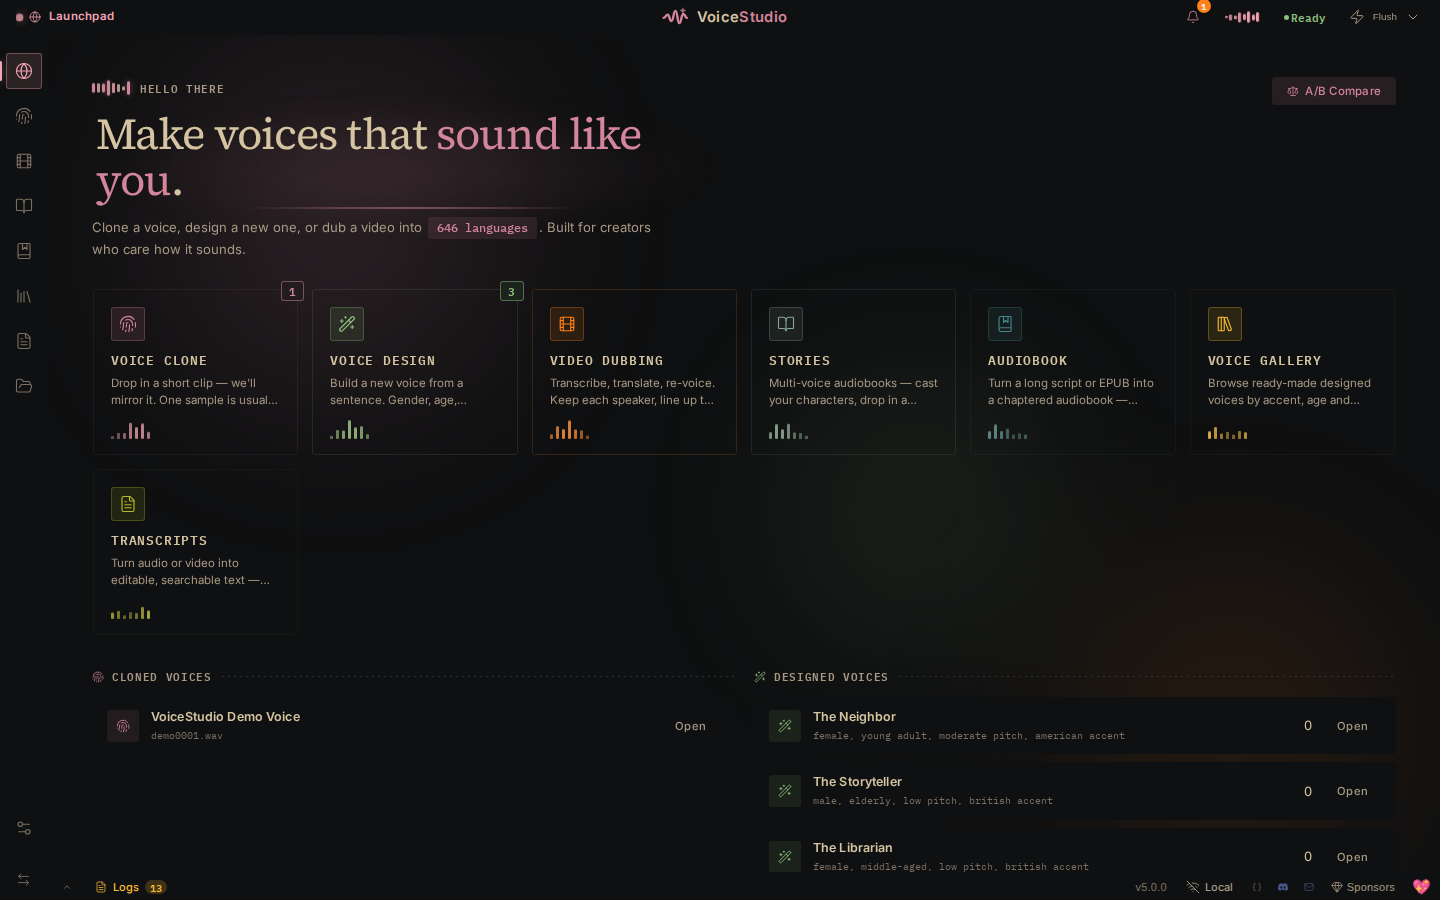
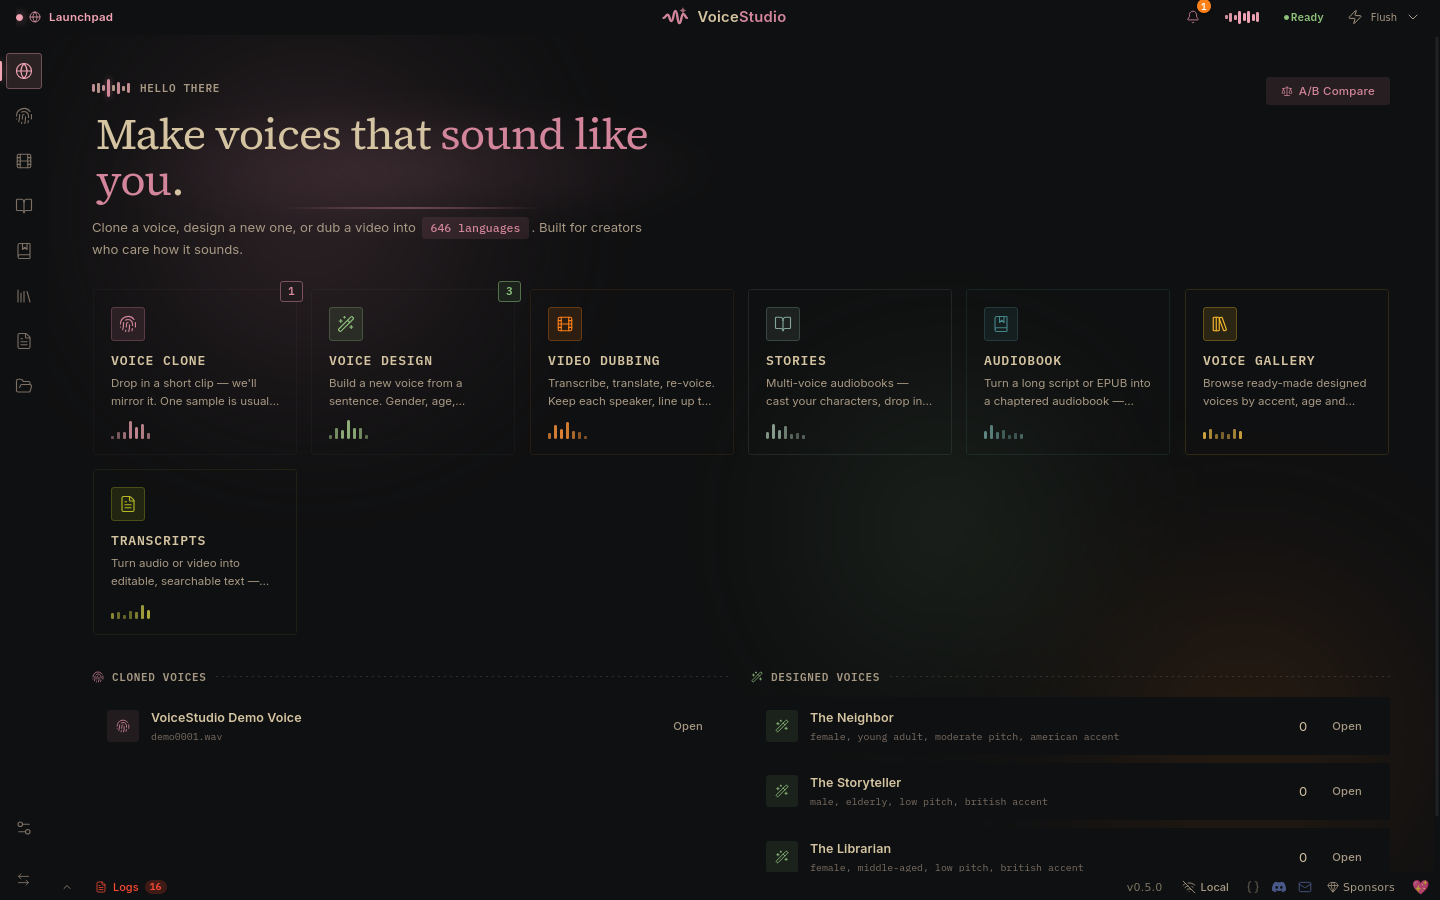
fix: correct VoiceStudio release to 0.5.0

diff --git a/tests/test_voicestudio_branding.py b/tests/test_voicestudio_branding.py
@@ -1,4 +1,4 @@
-"""VoiceStudio 5.0.0 release-brand and source-launch contracts."""
+"""VoiceStudio 0.5.0 release-brand and source-launch contracts."""
 
 from __future__ import annotations
 
@@ -8,10 +8,10 @@ from pathlib import Path
 
 
 ROOT = Path(__file__).resolve().parents[1]
-RELEASE_VERSION = "5.0.0"
+RELEASE_VERSION = "0.5.0"
 
 
-def test_release_version_is_5_0_0_everywhere() -> None:
+def test_release_version_is_0_5_0_everywhere() -> None:
     package = json.loads((ROOT / "frontend/package.json").read_text())
     assert package["version"] == RELEASE_VERSION
 

diff --git a/backend/core/version.py b/backend/core/version.py
@@ -24,7 +24,7 @@ from pathlib import Path
 # tests/test_app_version.py::test_all_version_files_in_lockstep and bumped by
 # release.yml's version-bump job, so it stays equal to
 # pyproject/tauri.conf/Cargo/package.json.
-_FALLBACK_VERSION = "5.0.0"
+_FALLBACK_VERSION = "0.5.0"
 
 
 def _fallback_version() -> str:

diff --git a/CHANGELOG.md b/CHANGELOG.md
@@ -8,11 +8,11 @@ the frozen-backend fallback mirror it for their toolchains.
 
 ## [Unreleased]
 
-## [5.0.0] — 2026-08-11
+## [0.5.0] — 2026-08-11
 
 **Highlights**
 
-- VoiceStudio 5.0.0 gives the app, desktop chrome, documentation, and package metadata one clear identity
+- VoiceStudio 0.5.0 gives the app, desktop chrome, documentation, and package metadata one clear identity
 - A local-first creative studio: voice cloning, design, dubbing, dictation, stories, audiobooks, and transcription without a subscription meter
 - Reliability first: automatic cache repair, truthful hardware routing, safer sidecars, and actionable recovery instead of mystery failures
 - Security boundaries now match the product: native file access stays native, untrusted network destinations fail closed, and public errors keep private diagnostics local
